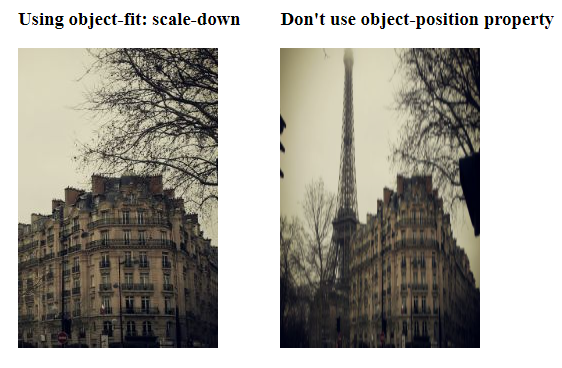
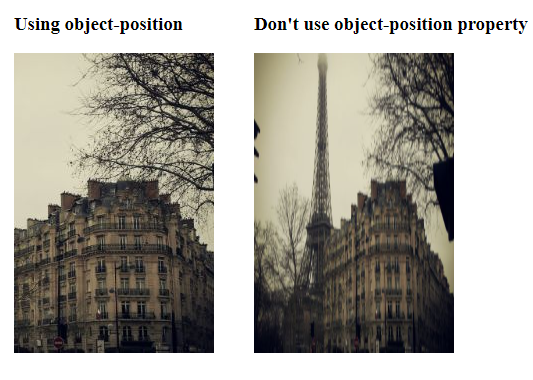
css_lesson4_update

diff --git a/lessons/lesson4.md b/lessons/lesson4.md
@@ -378,9 +378,10 @@ VD:
 </p>
 
 ## 2.8.Image Hover Overlay
+
 - Tạo một hiệu ứng che phủ hình ảnh khi di chuột vào một phần tử
 
-  VD: Khi di chuột vào ảnh, ảnh sẽ mờ đi vào bị che phủ bởi một cái hộp văn bản
+  VD: Khi di chuột vào ảnh, ảnh sẽ mờ đi vào bị che phủ bởi một khối văn bản
   ```html
   <style>
   .container {
@@ -434,9 +435,8 @@ VD:
 <p align = "center">
   <img width = 500 src="../images/lesson4/overlay_image.png">
 </p>
-- Có thêm tham khảo một số hiệu ứng che phủ hình ảnh khác tại 
 
-[Image Hover Overlay](https://www.w3schools.com/css/css3_images.asp)
+- Có thêm tham khảo một số hiệu ứng che phủ hình ảnh khác tại [Image Hover Overlay](https://www.w3schools.com/css/css3_images.asp)
 
 ## 2.9. Flip an Image
 - Để `đảo/lật ngược` một hình ảnh khi di chuột vào, chúng ta sử dụng thuộc tính `transform: scale()`
@@ -688,7 +688,7 @@ VD:
 # 5. CSS object-position property
 - Thuộc tính `object-position` được sử dụng để chỉ định một hình ảnh hay video được đặt ở vị trí nào trong phần tử chứa nó.
 - Giả sử rằng một phần của hình ảnh được hiển thị mà không phải vị trí như chúng ta muốn. Xác định vị trí hình ảnh mong muốn, chúng ta sẽ sử dụng thuộc tính `object-position`.
-- Nó có 2 giá trị: một trục là `trên-dưới` và 2 là `trái-phải`. Những con số này có thể được để là `phần trăm (%), pixel(px) hoặc đơn vị đo lường và có thể là giá trị âm` . Một số cái có thể được sử dụng làm như `center`, `top`, `right`,...
+- Nó có 2 giá trị: một trục là `trên-dưới` và 2 là `trái-phải`. Những con số này có thể được để là `phần trăm (%), pixel(px), đơn vị đo lường, có thể là giá trị âm` hoặc cũng có thể là các giá trị như `center`, `top`, `right`, `bottom`,...
 
   VD:
   ```html
@@ -706,7 +706,7 @@ VD:
   </style>
 
   <div>
-    <h3>Using object-fit: scale-down</h3>
+    <h3>Using object-position</h3>
     <img class="img1" src="paris.jpg" alt="Paris" width="400" height="300">
   </div>
 
@@ -1053,7 +1053,7 @@ VD:
 - Sử dụng thuộc tính `transform: translateY(4px);` để khi button được click vào thì button sẽ dịch chuyển vị trí xuống dưới theo trục Y 1 khoảng để tạo hiệu ứng giống như nó được nhấn xuống.   
 ...
 
-# 8. CSS Pagiantion
+# 8. CSS Pagination
 ## 8.1. Simple Pagination
 - Nếu một trang web có nhiều trang, chúng ta có thể thêm vào 1 phân trang đơn giản tới mỗi trang web như sau:
   ```html

diff --git a/README.md b/README.md
@@ -4,7 +4,7 @@
 2. [CSS - Lesson 2](./lessons/lesson2.md)
 3. [CSS - Lesson 3](./lessons/lesson3.md)
 4. [CSS - Lesson 4](./lessons/lesson4.md)
-5. [CSS - Lesson 5](./lessons/lesson1.md)
+5. [CSS - Lesson 5](./lessons/lesson5.md)
 6. [CSS - Lesson 6](./lessons/lesson1.md)
 
 [10] Assignment

diff --git a/lessons/lesson5.md b/lessons/lesson5.md
@@ -1,0 +1,1 @@
+# 1. CSS Variables
